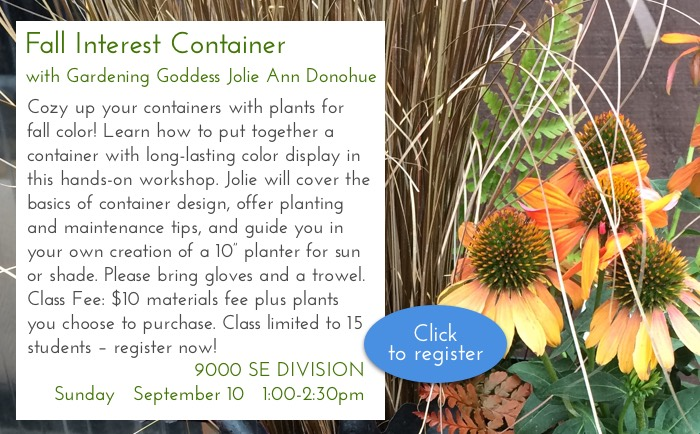
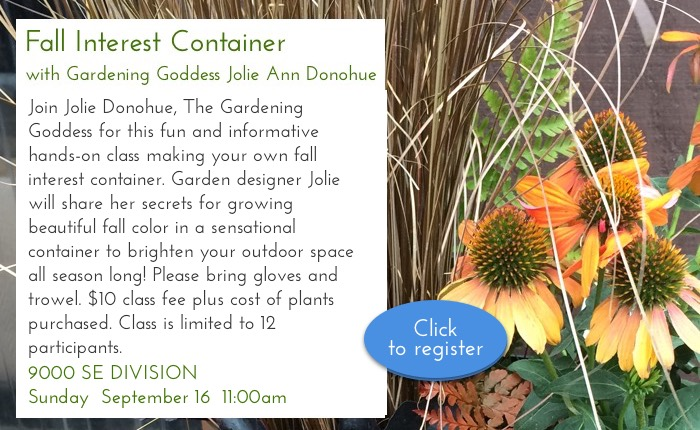
class pics

diff --git a/current-news.html b/current-news.html
@@ -91,13 +91,13 @@
                                                                             <tbody>
                                                                                 <tr>
                                                                                     <td style="border: 0px solid transparent; padding: 10px; color: #555555; font-family: Arial, Helvetica, sans-serif; font-size: 11px;">
-                                                                                        <div class="noWrapImageWrapper" style="text-align: center; margin:0; padding: 0;"><img src="https://portlandnursery.com/newsletter/images/dahlia2018.jpg" alt="Container" style="margin: 0px; display: inline;"></div>
+                                                                                        <div class="noWrapImageWrapper" style="text-align: center; margin:0; padding: 0;"><img src="https://portlandnursery.com/newsletter/images/masonbeeharvest.jpg" alt="Container" style="margin: 0px; display: inline;"></div>
                                                                                     </td>
                                                                                 </tr>
 
                                                                                 <tr>
                                                                                     <td style="border: 0px solid transparent; padding: 0; color: #555555;width: 100%;">
-                                                                                        <div class="noWrapImageWrapper" style="text-align: center; margin: 10px 0 0; padding: 0;"><img alt="Pond Iris" src="https://portlandnursery.com/newsletter/images/titles/dahlia2018.jpg" style="margin: 0;display: inline;"></div>
+                                                                                        <div class="noWrapImageWrapper" style="text-align: center; margin: 10px 0 0; padding: 0;"><img alt="Pond Iris" src="https://portlandnursery.com/newsletter/images/titles/masonbeeharvest.jpg" style="margin: 0;display: inline;"></div>
                                                                                     </td>
                                                                                                                                                                 </tr>
                                                                             </tbody>
@@ -111,7 +111,7 @@
 	                                                                             <tr>
                                                                                     <td>
 
-                <div style="font-family:'Josefin Sans',Arial, Helvetica, sans-serif;font-size:20px;font-weight: 300;color:#555555;line-height:1.5;padding:0 10px;text-align: left; margin: 15px 0;">Prepare your garden for mason bees by establishing healthy pollinator plants now!"
+                <div style="font-family:'Josefin Sans',Arial, Helvetica, sans-serif;font-size:28px;font-weight: 300;color:#555555;line-height:1.5;padding:0px 30px;text-align: center; margin: 0 30px 15px 30px;">Prepare your garden for mason bees by establishing healthy pollinator plants now!"</div>
 
 <div style="font-family:'Josefin Sans',Arial, Helvetica, sans-serif;font-size:20px;font-weight: 300;color:#555555;line-height:1.5;padding:0 10px;text-align: left; margin: 15px 0;">Come work with the experts from <a target="_blank" href="https://crownbees.com">Crown Bees</a> at our Division location on October 20, 2018 from 12pm-4pm, to find out how to harvest your mason bees! </div>
 
@@ -224,6 +224,42 @@
                                                                     </div>
                                                                 </td>
                                                             </tr><!-- End Divider Row -->
+                                                             <!-- ==================== Divider Row ===================== -->
+
+                                            <tr>
+                                                <td>
+                                                    <div style="align:center;" class="">
+                                                        <table border="0" cellpadding="0" cellspacing="0" width="100%" style="table-layout: fixed;">
+                                                            <tbody>
+                                                                <tr>
+                                                                    <td>
+                                                                        <div class="noWrapImageWrapper" style="text-align: center; margin: 0; padding: 10px 20px;">
+                                                                               <a href="https://portlandnursery.wufoo.com/forms/zk4co870io7dn5/" onclick="window.open(this.href,  null, 'height=483, =680, toolbar=0, location=0, status=1, scrollbars=1, resizable=1'); return false"><img alt="" src="https://portlandnursery.com/newsletter/images/classes/succulentjewelry.jpg" style="margin: 0px;display: inline;"></a>
+                                                                        </div>
+                                                                    </td>
+                                                                </tr>
+                                                            </tbody>
+                                                        </table>
+                                                    </div>
+                                                </td>
+                                            </tr><!-- End Divider Row -->
+                                           <!-- ==================== Divider Row ===================== -->
+
+                                            <tr>
+                                                <td style="border: 0px solid transparent; padding: 0; color: #555555;width: 100%;">
+                                                    <div style="text-align:center;" class="">
+                                                        <table border="0" cellpadding="0" cellspacing="0" width="100%" style="table-layout: fixed;">
+                                                            <tbody>
+                                                                <tr>
+                                                                    <td style="border: 0px solid transparent; padding: 0 20px; color: #555555;width: 100%;">
+                                                                        <div class="noWrapImageWrapper" style="border-top:1px solid #CCC;text-align: center; margin: 20px 0; padding: 0;"><img alt="" src="https://portlandnursery.com/images-layout/spacer_CCCCCC.gif" style="margin: 0;display: inline;"></div>
+                                                                    </td>
+                                                                </tr>
+                                                            </tbody>
+                                                        </table>
+                                                    </div>
+                                                </td>
+                                            </tr><!-- End Divider Row -->
 
                                             <!-- ==================== Divider Row ===================== -->
 
@@ -314,7 +350,7 @@
                                                                 <tr>
                                                                     <td>
                                                                         <div class="noWrapImageWrapper" style="text-align: center; margin: 0; padding: 10px 20px;">
-                                                                             <a href="https://portlandnursery.wufoo.com/forms/z1trpii61l9xqdz/" onclick="window.open(this.href,  null, 'height=483, =680, toolbar=0, location=0, status=1, scrollbars=1, resizable=1'); return false"><img alt="" src="https://portlandnursery.com/newsletter/images/classes/septgarden.jpg" style="margin: 0px;display: inline;"></a>
+                                                                             <a href="https://portlandnursery.wufoo.com/forms/ztl91oc135yqnc/" onclick="window.open(this.href,  null, 'height=483, =680, toolbar=0, location=0, status=1, scrollbars=1, resizable=1'); return false"><img alt="" src="https://portlandnursery.com/newsletter/images/classes/raisedbedL.jpg" style="margin: 0px;display: inline;"></a>
                                                                         </div>
                                                                     </td>
                                                                 </tr>
@@ -351,7 +387,7 @@
                                                                 <tr>
                                                                     <td>
                                                                         <div class="noWrapImageWrapper" style="text-align: center; margin: 0; padding: 10px 20px;">
-                                                                            <a href="https://portlandnursery.wufoo.com/forms/z1dibsml0m76l8c/" onclick="window.open(this.href,  null, 'height=483, =680, toolbar=0, location=0, status=1, scrollbars=1, resizable=1'); return false"><img alt="" src="https://portlandnursery.com/newsletter/images/classes/houseplantbasics2.jpg" style="margin: 0px;display: inline;"></a>
+                                                                            <a href="https://portlandnursery.wufoo.com/forms/zp8d2vc19rkixu/" onclick="window.open(this.href,  null, 'height=483, =680, toolbar=0, location=0, status=1, scrollbars=1, resizable=1'); return false"><img alt="" src="https://portlandnursery.com/newsletter/images/classes/drawingwithplants.jpg" style="margin: 0px;display: inline;"></a>
                                                                         </div>
                                                                     </td>
                                                                 </tr>
@@ -388,7 +424,7 @@
                                                                 <tr>
                                                                     <td>
                                                                         <div class="noWrapImageWrapper" style="text-align: center; margin: 0; padding: 10px 20px;">
-                                                                               <a href="https://portlandnursery.wufoo.com/forms/zk4co870io7dn5/" onclick="window.open(this.href,  null, 'height=483, =680, toolbar=0, location=0, status=1, scrollbars=1, resizable=1'); return false"><img alt="" src="https://portlandnursery.com/newsletter/images/classes/succulentjewelry.jpg" style="margin: 0px;display: inline;"></a>
+                                                                               <a href="https://portlandnursery.wufoo.com/forms/z2xdvtv0z1qrvd/" onclick="window.open(this.href,  null, 'height=483, =680, toolbar=0, location=0, status=1, scrollbars=1, resizable=1'); return false"><img alt="" src="https://portlandnursery.com/newsletter/images/classes/fallinterest.jpg" style="margin: 0px;display: inline;"></a>
                                                                         </div>
                                                                     </td>
                                                                 </tr>
